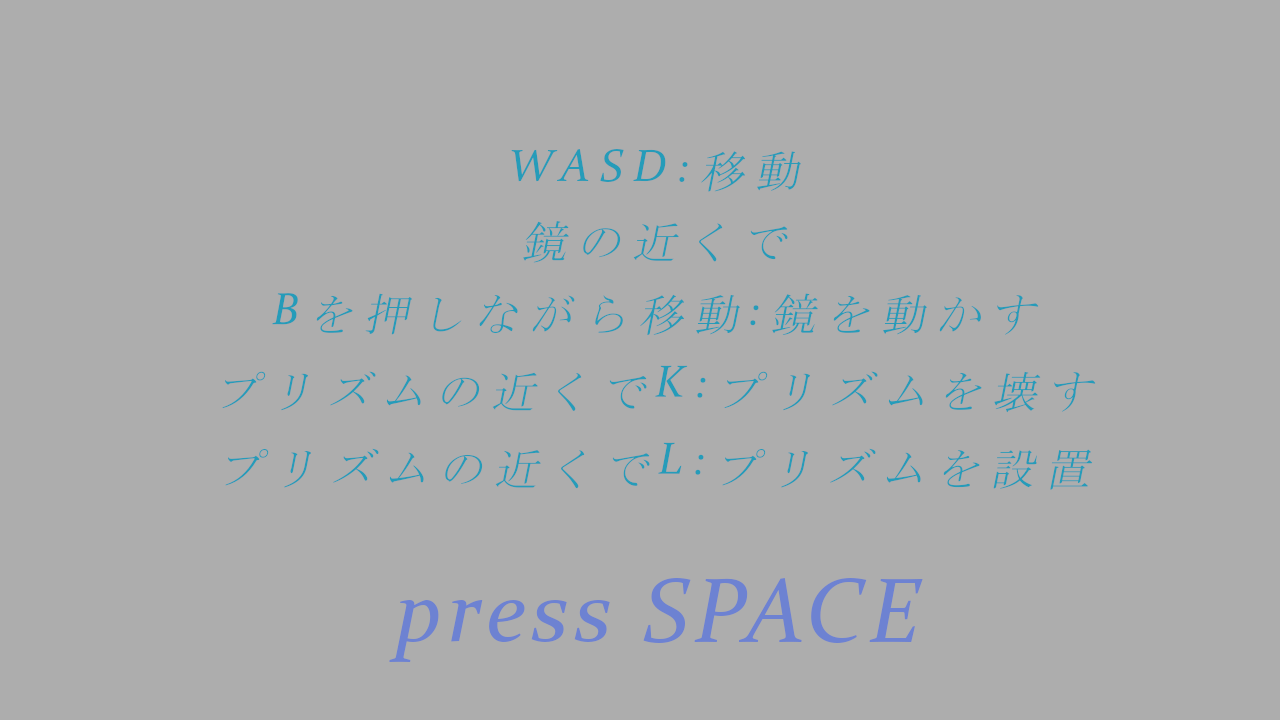
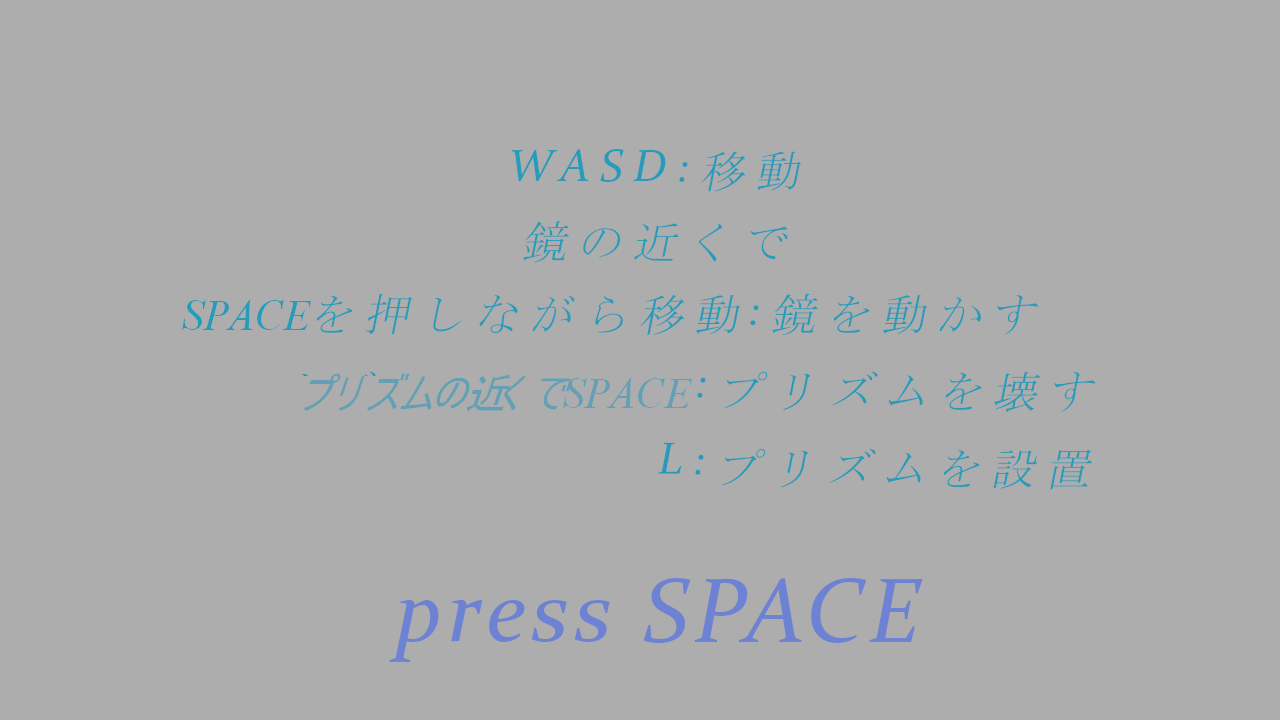
チュートリアルの説明のTextureを少し修正

diff --git a/GameScene.cpp b/GameScene.cpp
@@ -190,7 +190,7 @@ void GameScene::Draw() {
 		light->Draw(&camera_);
 	}
 	player_->Draw(&camera_);
-	color_->Draw(&camera_);
+	/*color_->Draw(&camera_);*/
 	
 
 	
